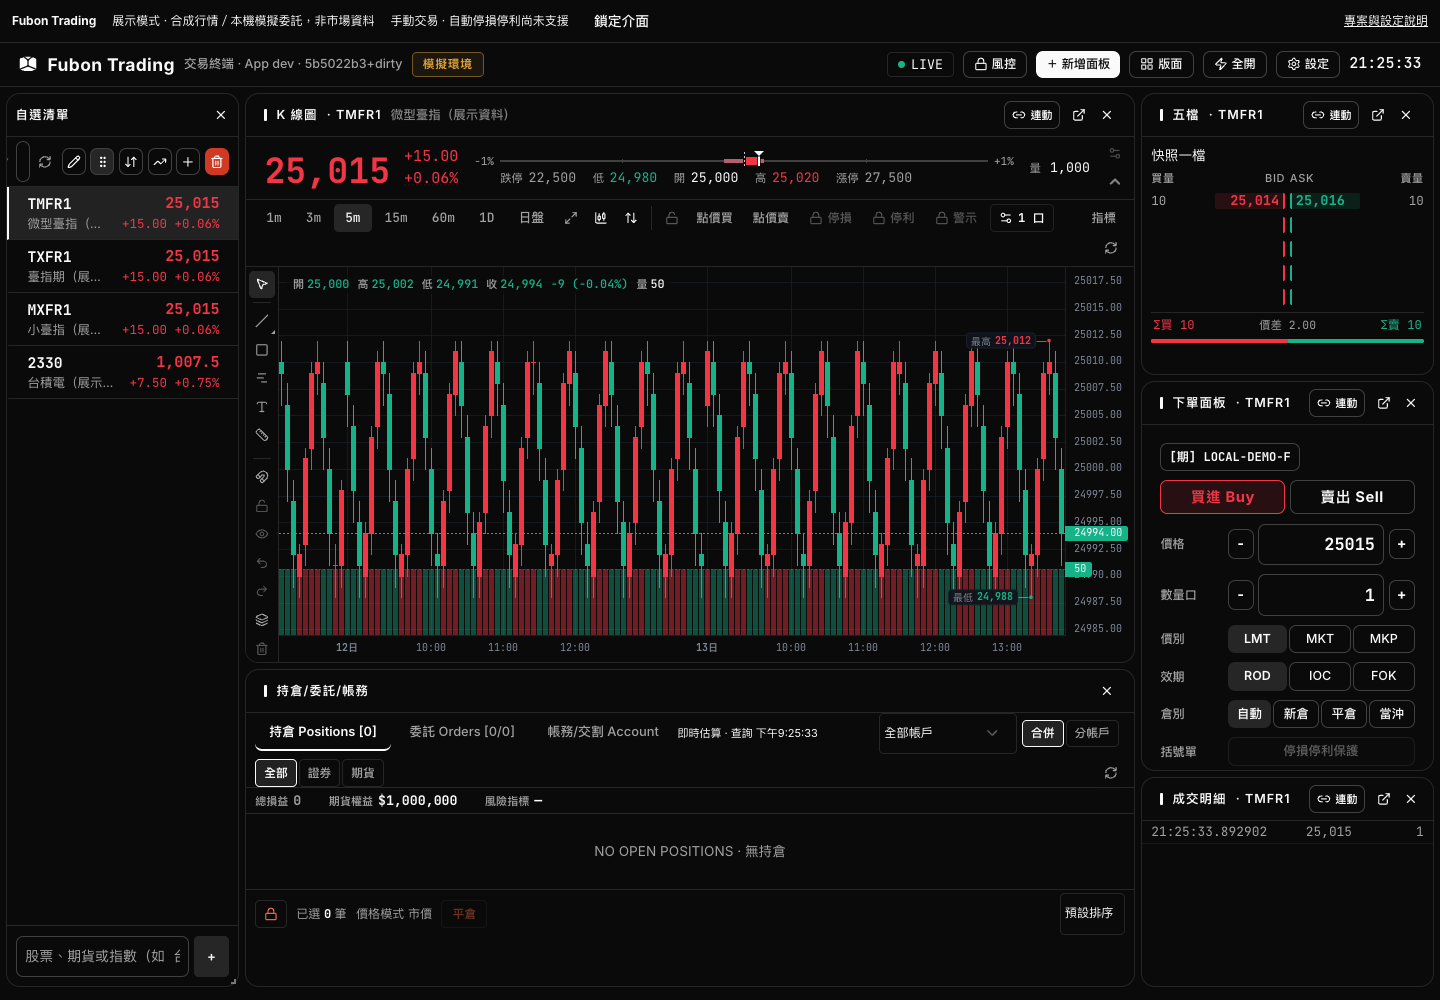
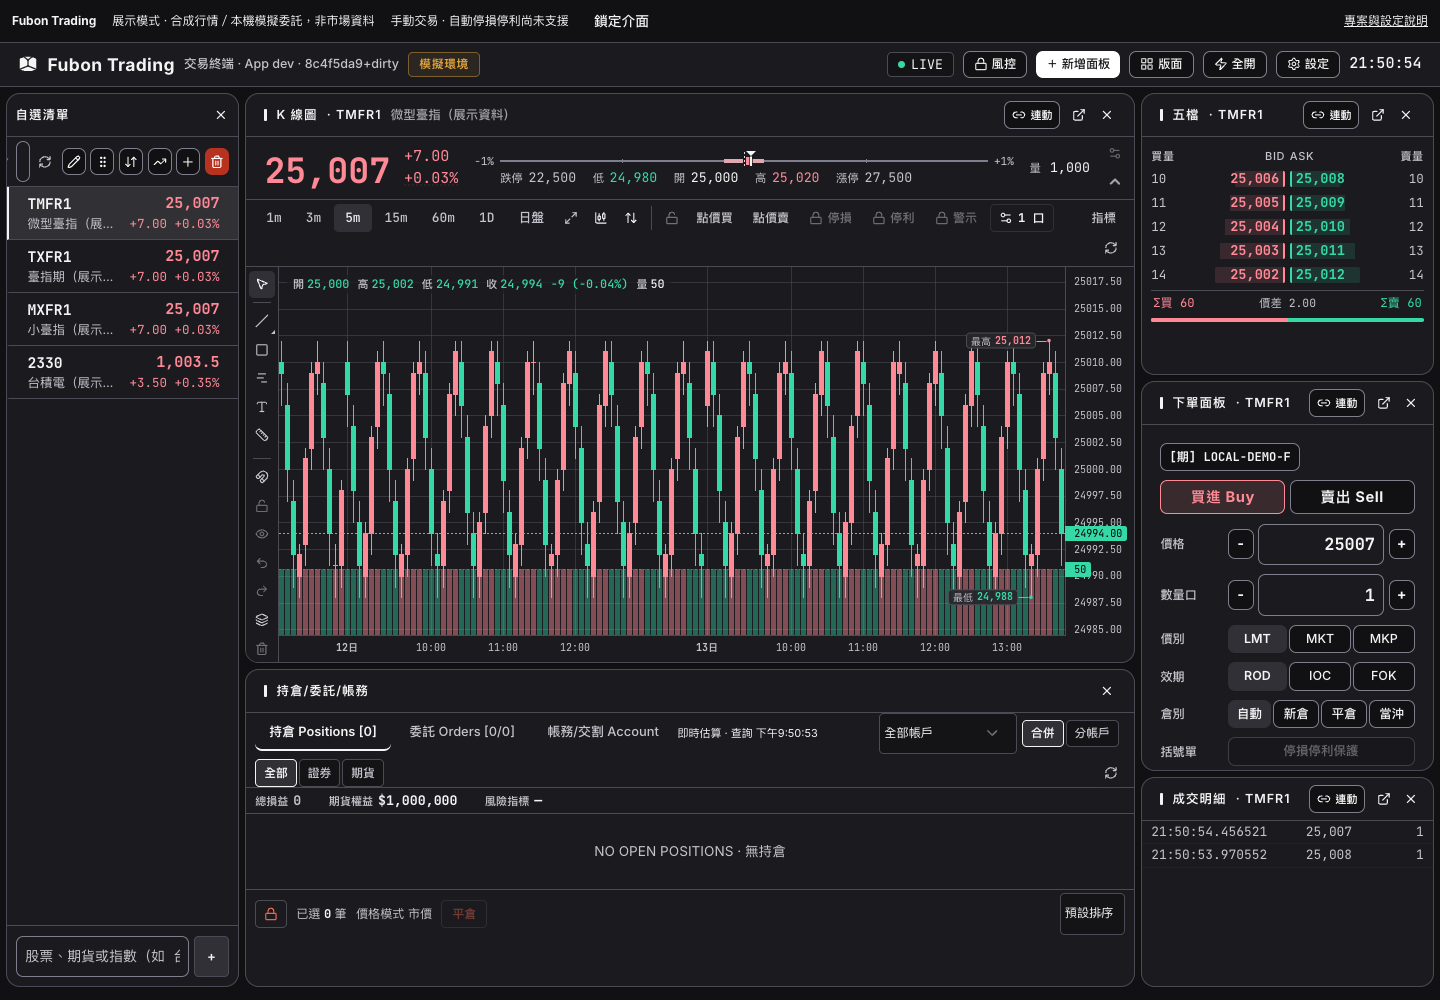
fix(theme): 改善深色介面的文字與狀態可讀性
拉開炭灰表面層次並提亮次要文字、輸入邊界與圖表刻度。價格與白字實心標籤分開用色，修正量條疊色、分頁焦點及主要操作的前景對比，維持既有布局和尺寸。

diff --git a/src/theme.css.ts b/src/theme.css.ts
@@ -37,32 +37,32 @@ interface Palette {
     wickShare: string;
 }
 
-// Neutral shadcn chrome; market up/down and status colors remain semantic.
+// Layered neutral surfaces keep dense controls and small labels readable.
 const dark: Palette = {
-    background: '#0a0a0a',
-    panel: '#0a0a0a',
-    panelRaised: '#171717',
-    inset: '#0a0a0a',
-    foreground: '#fafafa',
-    muted: '#262626',
-    mutedForeground: '#a1a1a1',
-    border: '#262626',
-    borderBright: '#404040',
-    accent: '#fafafa',
-    accentDim: 'rgba(250, 250, 250, 0.1)',
+    background: '#111113',
+    panel: '#1b1b1f',
+    panelRaised: '#26262b',
+    inset: '#141417',
+    foreground: '#f4f4f5',
+    muted: '#303036',
+    mutedForeground: '#c4c4cc',
+    border: '#4b4b55',
+    borderBright: '#7e7e8c',
+    accent: '#f4f4f5',
+    accentDim: 'rgba(244, 244, 245, 0.1)',
     amber: '#e0a43c',
-    red: '#f23645',
-    redDim: 'rgba(242, 54, 69, 0.13)',
-    redFlash: 'rgba(242, 54, 69, 0.2)',
-    green: '#16b389',
-    greenDim: 'rgba(22, 179, 137, 0.13)',
-    greenFlash: 'rgba(22, 179, 137, 0.18)',
-    // 對 panel 6.92:1；白字對 dangerSolid 4.87:1
+    red: '#ff8a96',
+    redDim: 'rgba(255, 138, 150, 0.13)',
+    redFlash: 'rgba(255, 138, 150, 0.2)',
+    green: '#35d9a7',
+    greenDim: 'rgba(53, 217, 167, 0.13)',
+    greenFlash: 'rgba(53, 217, 167, 0.18)',
+    // Bright error text and a separate solid fill for white-label buttons.
     danger: '#ff6a4d',
     dangerDim: 'rgba(255, 106, 77, 0.13)',
-    dangerSolid: '#d03a24',
-    // 往灰色混：紅 #b85e6e 4.53:1、綠 #4a9d90 6.07:1（對 panel）
-    wickBase: '#7e8798',
+    dangerSolid: '#b83220',
+    // Wick colors remain quieter than candle bodies, above the grid.
+    wickBase: '#c4c4cc',
     wickShare: '50%',
 };
 
@@ -121,6 +121,9 @@ function makeTokens(p: Palette, convention: 'tw' | 'intl') {
             upDim,
             upFlash,
             down,
+            // White labels need a darker fill than small price text in dark mode.
+            upSolid: p === dark ? (convention === 'tw' ? '#b93347' : '#087a5b') : up,
+            downSolid: p === dark ? (convention === 'tw' ? '#087a5b' : '#b93347') : down,
             // Small colored control labels need stronger contrast on a light tint.
             upControl: p === light ? (convention === 'tw' ? '#be123c' : '#047857') : up,
             downControl: p === light ? (convention === 'tw' ? '#047857' : '#be123c') : down,
@@ -133,6 +136,7 @@ function makeTokens(p: Palette, convention: 'tw' | 'intl') {
             // 錯誤用朱紅 danger，不沿用漲跌紅，避免台股配色下錯誤和「漲」同色。
             // 價格、買賣方向才用 up／down
             success: p.green,
+            successSolid: p === dark ? '#087a5b' : p.green,
             successDim: p.greenDim,
             danger: p.danger,
             dangerDim: p.dangerDim,
@@ -226,7 +230,8 @@ globalStyle(':root', {
         '--muted-foreground': vars.color.mutedForeground,
         '--accent': vars.color.muted,
         '--accent-foreground': vars.color.foreground,
-        '--destructive': vars.color.dangerSolid,
+        '--destructive': vars.color.danger,
+        '--destructive-solid': vars.color.dangerSolid,
         '--destructive-foreground': '#ffffff',
         '--border': vars.color.border,
         '--input': vars.color.borderBright,
@@ -234,7 +239,9 @@ globalStyle(':root', {
         '--radius': vars.radius.lg,
         '--trade-up': vars.color.upControl,
         '--trade-up-dim': vars.color.upDim,
+        '--trade-up-solid': vars.color.upSolid,
         '--trade-down': vars.color.downControl,
         '--trade-down-dim': vars.color.downDim,
+        '--trade-down-solid': vars.color.downSolid,
     },
 });

diff --git a/src/lib/custom-theme.ts b/src/lib/custom-theme.ts
@@ -31,12 +31,12 @@ export const CUSTOM_COLOR_FIELDS: { key: CustomColorKey; label: string }[] = [
 export const CUSTOM_BASES: Record<CustomBase, CustomTheme> = {
     dark: {
         base: 'dark',
-        background: '#0a0a0a',
-        panel: '#0a0a0a',
-        foreground: '#fafafa',
-        accent: '#fafafa',
-        red: '#f23645',
-        green: '#16b389',
+        background: '#111113',
+        panel: '#1b1b1f',
+        foreground: '#f4f4f5',
+        accent: '#f4f4f5',
+        red: '#ff8a96',
+        green: '#35d9a7',
     },
     light: {
         base: 'light',
@@ -58,7 +58,7 @@ export const CUSTOM_PRESETS: { name: string; theme: CustomTheme }[] = [
 
 // 狀態錯誤色（朱紅）：不跟使用者挑的漲跌紅，固定依底色，與 theme.css.ts 一致
 export const CUSTOM_DANGER: Record<CustomBase, { danger: string; dangerSolid: string }> = {
-    dark: { danger: '#ff6a4d', dangerSolid: '#d03a24' },
+    dark: { danger: '#ff6a4d', dangerSolid: '#b83220' },
     light: { danger: '#c5341a', dangerSolid: '#c5341a' },
 };
 
@@ -115,10 +115,12 @@ export function customTokens(t: CustomTheme, convention: Convention): Record<str
         accentDim: alpha(t.accent, dark ? 0.12 : 0.1),
         magenta: mutedFg,
         up,
+        upSolid: dark ? mix(up, '#000000', 0.45) : up,
         upControl: dark ? up : mix(up, '#000000', 0.2),
         upDim: alpha(up, dim),
         upFlash: alpha(up, flash),
         down,
+        downSolid: dark ? mix(down, '#000000', 0.45) : down,
         downControl: dark ? down : mix(down, '#000000', 0.2),
         downDim: alpha(down, dim),
         downFlash: alpha(down, flash),
@@ -127,6 +129,7 @@ export function customTokens(t: CustomTheme, convention: Convention): Record<str
         wickDown: dark ? mix(down, mutedFg, 0.5) : mix(down, t.panel, 0.2),
         flat: mutedFg,
         success: t.green,
+        successSolid: dark ? mix(t.green, '#000000', 0.45) : t.green,
         successDim: alpha(t.green, dim),
         danger: CUSTOM_DANGER[t.base].danger,
         dangerDim: alpha(CUSTOM_DANGER[t.base].danger, dim),

diff --git a/src/components/flash-order.css.ts b/src/components/flash-order.css.ts
@@ -465,7 +465,7 @@ export const orderChip = styleVariants({
             color: vars.color.up,
             borderColor: vars.color.up,
             background: vars.color.upDim,
-            ':hover': { color: '#fff', background: vars.color.up },
+            ':hover': { color: '#fff', background: vars.color.upSolid },
         },
     ],
     sell: [
@@ -474,7 +474,7 @@ export const orderChip = styleVariants({
             color: vars.color.down,
             borderColor: vars.color.down,
             background: vars.color.downDim,
-            ':hover': { color: '#fff', background: vars.color.down },
+            ':hover': { color: '#fff', background: vars.color.downSolid },
         },
     ],
 });
@@ -495,8 +495,8 @@ const fillBase = style({
 });
 
 export const fillBadge = styleVariants({
-    buy: [fillBase, { background: vars.color.up, opacity: 0.85 }],
-    sell: [fillBase, { background: vars.color.down, opacity: 0.85 }],
+    buy: [fillBase, { background: vars.color.upSolid, opacity: 0.85 }],
+    sell: [fillBase, { background: vars.color.downSolid, opacity: 0.85 }],
 });
 
 export const buyCell = style([
@@ -556,12 +556,12 @@ export const priceCell = style([
 
 // limit-up/down rows: price cell filled solid in the limit color
 export const bandUp = style({
-    background: vars.color.up,
+    background: vars.color.upSolid,
     color: '#fff',
     fontWeight: 700,
 });
 export const bandDown = style({
-    background: vars.color.down,
+    background: vars.color.downSolid,
     color: '#fff',
     fontWeight: 700,
 });
@@ -576,7 +576,7 @@ export const lastVol = style({
     fontSize: '0.58rem',
     fontWeight: 400,
     color: 'inherit',
-    opacity: 0.75,
+    opacity: 0.9,
 });
 
 const volBarBase = style({
@@ -595,6 +595,7 @@ export const volBarAsk = style([volBarBase, { left: 0 }]);
 export const cellText = style({
     position: 'relative',
     zIndex: 1,
+    color: vars.color.foreground,
 });
 
 // floating "back to last price" pill when price leaves the window

diff --git a/src/components/conditional-panel.css.ts b/src/components/conditional-panel.css.ts
@@ -78,7 +78,7 @@ export const button = styleVariants({
     primary: [buttonBase, {
         background: vars.color.accent,
         borderColor: vars.color.accent,
-        color: '#fff',
+        color: 'var(--primary-foreground)',
         fontWeight: 600,
         selectors: { '&:hover:not(:disabled)': { background: vars.color.accent, borderColor: vars.color.accent, filter: 'brightness(1.08)' } },
     }],
@@ -295,9 +295,9 @@ const segBase = style({
 
 export const segItem = styleVariants({
     off: [segBase],
-    on: [segBase, { background: vars.color.accent, color: '#fff', fontWeight: 600 }],
-    buy: [segBase, { background: vars.color.up, color: '#fff', fontWeight: 600 }],
-    sell: [segBase, { background: vars.color.down, color: '#fff', fontWeight: 600 }],
+    on: [segBase, { background: vars.color.accent, color: 'var(--primary-foreground)', fontWeight: 600 }],
+    buy: [segBase, { background: vars.color.upSolid, color: '#fff', fontWeight: 600 }],
+    sell: [segBase, { background: vars.color.downSolid, color: '#fff', fontWeight: 600 }],
 });
 
 export const summary = style({
@@ -557,7 +557,7 @@ const opButtonBase = style({
 });
 export const opButton = styleVariants({
     plain: [opButtonBase, { selectors: { '&:hover:not(:disabled)': { background: vars.color.muted } } }],
-    primary: [opButtonBase, { background: vars.color.accent, borderColor: vars.color.accent, color: '#fff', fontWeight: 600 }],
+    primary: [opButtonBase, { background: vars.color.accent, borderColor: vars.color.accent, color: 'var(--primary-foreground)', fontWeight: 600 }],
     danger: [opButtonBase, { borderColor: vars.color.danger, color: vars.color.danger, fontWeight: 600 }],
 });
 const opsNoteBase = style({ fontSize: '0.64rem', maxWidth: '212px', overflow: 'hidden', textOverflow: 'ellipsis', whiteSpace: 'nowrap' });

diff --git a/src/components/replay-panel.css.ts b/src/components/replay-panel.css.ts
@@ -86,8 +86,8 @@ export const practiceActions = style({ display: 'grid', gridTemplateColumns: '86
 globalStyle(`${practiceActions} label`, { display: 'flex', alignItems: 'center', gap: 4, fontSize: '0.62rem', color: vars.color.mutedForeground });
 globalStyle(`${practiceActions} input`, { width: 42, color: vars.color.foreground, background: vars.color.inset, border: `1px solid ${vars.color.border}`, borderRadius: vars.radius.sm });
 const practiceButton = style({ padding: '4px 7px', borderRadius: vars.radius.sm, cursor: 'pointer', fontWeight: 700, fontSize: '0.64rem', selectors: { '&:disabled': { opacity: 0.4, cursor: 'not-allowed' } } });
-export const practiceBuy = style([practiceButton, { color: '#fff', background: vars.color.up, border: `1px solid ${vars.color.up}` }]);
-export const practiceSell = style([practiceButton, { color: '#fff', background: vars.color.down, border: `1px solid ${vars.color.down}` }]);
+export const practiceBuy = style([practiceButton, { color: '#fff', background: vars.color.upSolid, border: `1px solid ${vars.color.up}` }]);
+export const practiceSell = style([practiceButton, { color: '#fff', background: vars.color.downSolid, border: `1px solid ${vars.color.down}` }]);
 export const practiceFlat = style([practiceButton, { color: vars.color.amber, background: vars.color.inset, border: `1px solid ${vars.color.amber}` }]);
 export const practiceNote = style({ marginTop: 4, color: vars.color.mutedForeground, fontSize: '0.56rem' });
 export const chartArea = style({ position: 'relative', flex: 1, minHeight: 0, display: 'flex', flexDirection: 'column' });

diff --git a/src/components/watchlist.css.ts b/src/components/watchlist.css.ts
@@ -347,8 +347,8 @@ const limitBlockBase = style({
     borderRadius: vars.radius.md,
 });
 export const limitBlock = styleVariants({
-    up: [limitBlockBase, { background: solidFill(limitTone.up, 82) }],
-    down: [limitBlockBase, { background: solidFill(limitTone.down, 82) }],
+    up: [limitBlockBase, { background: solidFill(vars.color.upSolid, 82) }],
+    down: [limitBlockBase, { background: solidFill(vars.color.downSolid, 82) }],
 });
 globalStyle(`${limitBlockBase} span`, { color: '#fff' });
 // 排序模式左右各讓出把手與上移／下移鈕的空間 — 色塊不外推、內距收窄，
@@ -398,15 +398,15 @@ export const limitSolid = styleVariants({
     up: [
         limitSolidBase,
         {
-            background: solidFill(limitTone.up, 78),
-            ':hover': { background: solidFill(limitTone.up, 70) },
+            background: solidFill(vars.color.upSolid, 78),
+            ':hover': { background: solidFill(vars.color.upSolid, 70) },
         },
     ],
     down: [
         limitSolidBase,
         {
-            background: solidFill(limitTone.down, 78),
-            ':hover': { background: solidFill(limitTone.down, 70) },
+            background: solidFill(vars.color.downSolid, 78),
+            ':hover': { background: solidFill(vars.color.downSolid, 70) },
         },
     ],
 });

diff --git a/src/lib/theme-store.ts b/src/lib/theme-store.ts
@@ -162,11 +162,11 @@ const CHROME: Record<
     Pick<ChartColors, 'text' | 'grid' | 'crosshair' | 'border' | 'labelBg'>
 > = {
     dark: {
-        text: '#7e8798',
-        grid: 'rgba(26, 31, 41, 0.7)',
-        crosshair: '#3d8bff',
-        border: '#1a1f29',
-        labelBg: '#10131a',
+        text: '#c4c4cc',
+        grid: 'rgba(75, 75, 85, 0.55)',
+        crosshair: '#e4e4e7',
+        border: '#4b4b55',
+        labelBg: '#26262b',
     },
     light: {
         text: '#5f6b80',
@@ -179,10 +179,10 @@ const CHROME: Record<
 
 const RG: Record<'dark' | 'light', { red: string; green: string; redVol: string; greenVol: string }> = {
     dark: {
-        red: '#f23645',
-        green: '#16b389',
-        redVol: 'rgba(242, 54, 69, 0.45)',
-        greenVol: 'rgba(22, 179, 137, 0.4)',
+        red: '#ff8a96',
+        green: '#35d9a7',
+        redVol: 'rgba(255, 138, 150, 0.45)',
+        greenVol: 'rgba(53, 217, 167, 0.4)',
     },
     light: {
         red: '#d6213a',

diff --git a/src/components/ui/tabs.tsx b/src/components/ui/tabs.tsx
@@ -29,7 +29,7 @@ const TabsTrigger = React.forwardRef<
   <TabsPrimitive.Trigger
     ref={ref}
     className={cn(
-      "inline-flex items-center justify-center whitespace-nowrap rounded-md px-3 py-1 text-sm font-medium ring-offset-background transition-all focus-visible:outline-none focus-visible:ring-2 focus-visible:ring-ring focus-visible:ring-offset-2 disabled:pointer-events-none disabled:opacity-50 data-[state=active]:bg-background data-[state=active]:text-foreground data-[state=active]:shadow",
+      "inline-flex items-center justify-center whitespace-nowrap rounded-md px-3 py-1 text-sm font-medium ring-offset-background transition-all focus-visible:outline-none focus-visible:ring-2 focus-visible:ring-ring focus-visible:ring-offset-2 disabled:pointer-events-none disabled:opacity-50 data-[state=active]:bg-background data-[state=active]:text-foreground data-[state=active]:shadow-[inset_0_0_0_1px_var(--input)]",
       className
     )}
     {...props}

diff --git a/tailwind.config.ts b/tailwind.config.ts
@@ -7,7 +7,7 @@ export default {
     corePlugins: { preflight: false },
     theme: {
         extend: {
-            colors: { 'primary-soft': 'var(--primary-soft)', ...Object.fromEntries([
+            colors: { 'primary-soft': 'var(--primary-soft)', 'destructive-solid': 'var(--destructive-solid)', ...Object.fromEntries([
                 'background', 'foreground', 'border', 'input', 'ring',
                 'primary', 'secondary', 'muted', 'accent', 'destructive', 'popover', 'card',
             ].map(name => [name, ['primary', 'secondary', 'muted', 'accent', 'destructive', 'popover', 'card'].includes(name)

diff --git a/src/components/quote-board.css.ts b/src/components/quote-board.css.ts
@@ -60,8 +60,8 @@ const limitBadgeBase = style({
 });
 
 export const limitBadge = styleVariants({
-    up: [limitBadgeBase, { background: vars.color.up }],
-    down: [limitBadgeBase, { background: vars.color.down }],
+    up: [limitBadgeBase, { background: vars.color.upSolid }],
+    down: [limitBadgeBase, { background: vars.color.downSolid }],
 });
 
 // 有階梯的看板（指數、個股共用）：data-tier 由 useBoardTier 依面板大小設定（目標是標題列加看板

diff --git a/src/components/ui/button.tsx b/src/components/ui/button.tsx
@@ -14,7 +14,7 @@ const buttonVariants = cva(
         default:
           "bg-primary text-primary-foreground shadow hover:brightness-110",
         destructive:
-          "bg-destructive text-destructive-foreground shadow-sm hover:brightness-110",
+          "bg-destructive-solid text-destructive-foreground shadow-sm hover:brightness-110",
         outline:
           "border border-input bg-background shadow-sm hover:bg-accent hover:text-accent-foreground",
         secondary:

diff --git a/src/components/ui/badge.tsx b/src/components/ui/badge.tsx
@@ -13,7 +13,7 @@ const badgeVariants = cva(
         secondary:
           "border-transparent bg-secondary text-secondary-foreground hover:brightness-110",
         destructive:
-          "border-transparent bg-destructive text-destructive-foreground shadow hover:brightness-110",
+          "border-transparent bg-destructive-solid text-destructive-foreground shadow hover:brightness-110",
         outline: "text-foreground",
       },
     },
